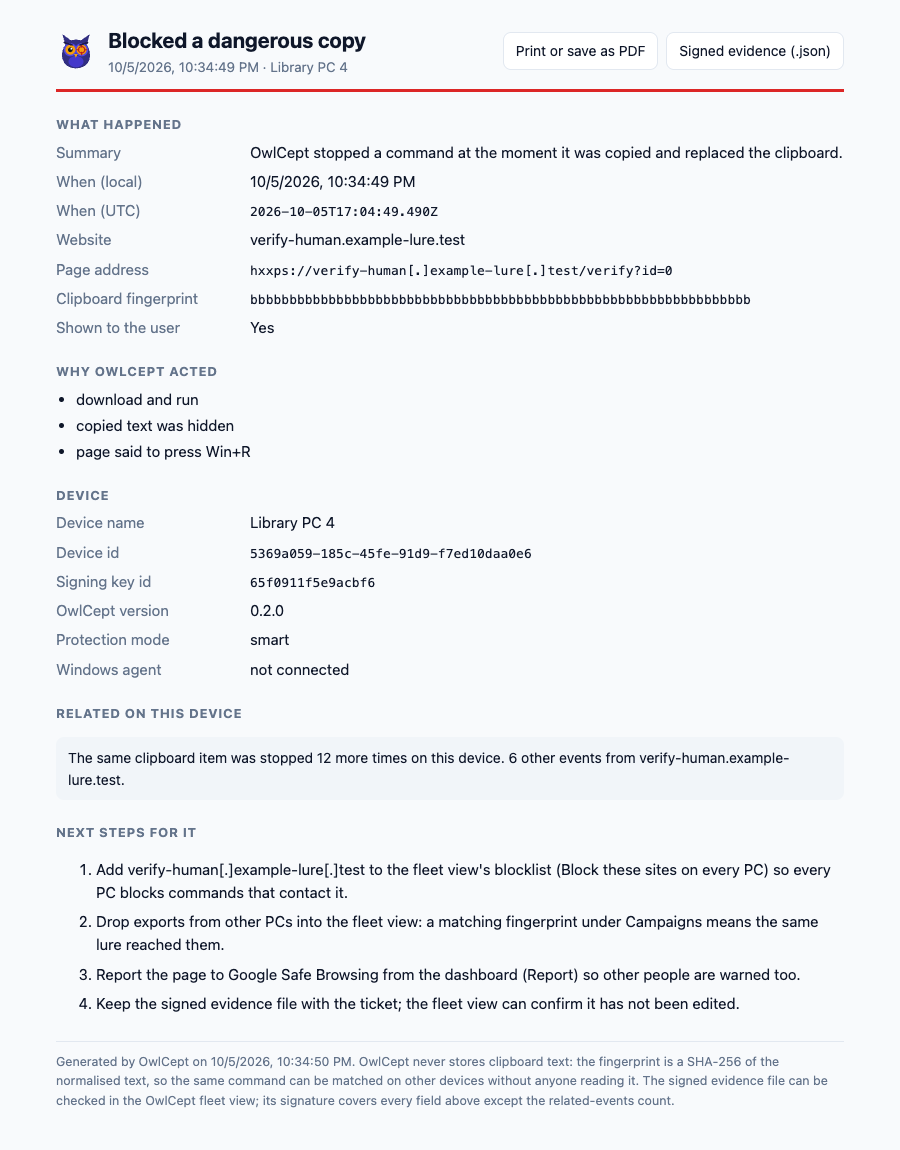
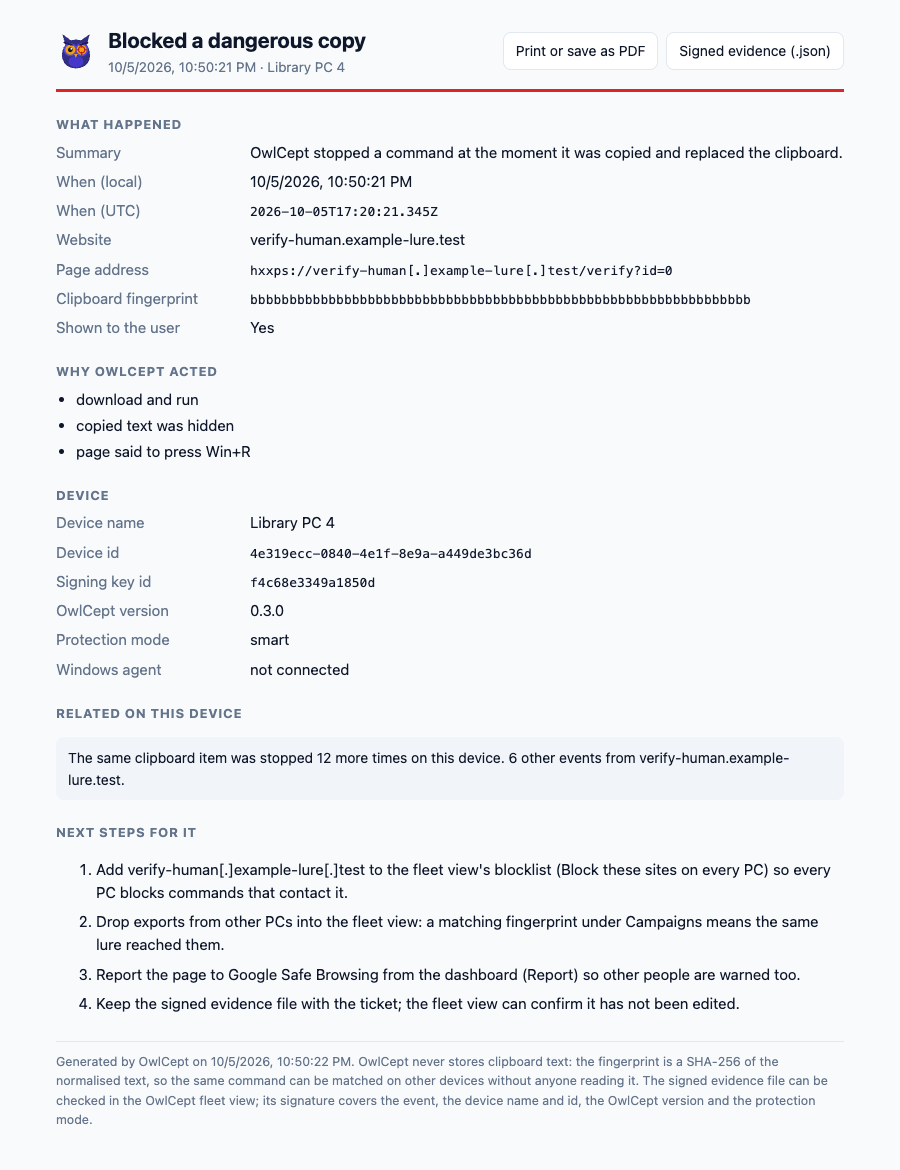
0.3.0: README, web README, deploy guide and threat model for the new features
Every part moves to 0.3.0.

Changed region(s): [[0.0622, 0.0304, 0.9333, 0.9739], [0.28, 0.1217, 0.9333, 0.3043], [0.28, 0.4261, 0.5911, 0.6087]]

diff --git a/packages/engine/cli/owlcept.ts b/packages/engine/cli/owlcept.ts
@@ -14,7 +14,7 @@ import { createInterface } from 'node:readline';
 import { analyze, checkOAuthPaste, describeTrick, explain, explainConsentFix, normalizeForHash, sha256Hex } from '../src/index.ts';
 import type { AnalyzeContext, CustodyRecord, Lang, PasteTarget, Verdict } from '../src/types.ts';
 
-const VERSION = '0.2.0';
+const VERSION = '0.3.0';
 const TARGETS = new Set(['run', 'terminal', 'explorer', 'web', 'unknown']);
 const LANGS = new Set(['en', 'hi', 'kn']);
 const EXIT = { allow: 0, warn: 1, block: 2 } as const;

diff --git a/packages/engine/test/cli.test.ts b/packages/engine/test/cli.test.ts
@@ -50,7 +50,7 @@ test('serve: one JSON reply per request line, errors reported per line', () => {
 test('usage errors exit 64', () => {
   assert.equal(run(['check', 'x', '--target', 'moon']).status, 64);
   assert.equal(run(['frobnicate']).status, 64);
-  assert.equal(run(['--version']).stdout.trim(), '0.2.0');
+  assert.equal(run(['--version']).stdout.trim(), '0.3.0');
 });
 
 test('check --trace prints every decoding step', () => {

diff --git a/packages/engine/host/entry.ts b/packages/engine/host/entry.ts
@@ -19,4 +19,4 @@ function analyzeJson(requestJson: string): string {
   return JSON.stringify({ verdict, explanation });
 }
 
-(globalThis as Record<string, unknown>).OwlCept = { analyzeJson, normalizeForHash, version: '0.2.0' };
+(globalThis as Record<string, unknown>).OwlCept = { analyzeJson, normalizeForHash, version: '0.3.0' };

diff --git a/README.md b/README.md
@@ -32,6 +32,7 @@
 ![Languages](https://img.shields.io/badge/warnings-English_·_Hindi_·_Kannada-B91C1C)
 ![False prompts](https://img.shields.io/badge/false_prompts-0_of_650_documented_commands-15803D)
 ![Latency](https://img.shields.io/badge/engine_p95-under_0.1_ms-0F172A)
+![Worst case](https://img.shields.io/badge/worst_case-~24_ms_on_200_KB-0F172A)
 
 [**Download**](https://github.com/sidhy4rth/OwlCept/releases/latest) ·
 [**How it works**](#how-it-works) ·
@@ -61,7 +62,7 @@
 <td align="center"><h3>3</h3>warning languages<br><sub>English · Hindi · Kannada</sub></td>
 <td align="center"><h3>0 / 650</h3>false prompts<br><sub>on commands from<br>official docs</sub></td>
 <td align="center"><h3>0</h3>bytes of clipboard<br>sent anywhere</td>
-<td align="center"><h3>159</h3>tests<br><sub>131 unit + 28 in a<br>real browser</sub></td>
+<td align="center"><h3>212</h3>tests<br><sub>160 unit + 52 in a<br>real browser</sub></td>
 </tr>
 </table>
 
@@ -94,6 +95,11 @@ in their own language, what the page tried to make them do.
 | **Activity dashboard** | What was stopped, where and why, a 30-day chart, the same command stopped on several pages, searchable history, CSV and JSON export, and a weekly WhatsApp summary for a trusted person. |
 | **Opt-in lure reporting** | "Report this page" opens Google Safe Browsing's public report form with the lure URL filled in, and only when clicked. |
 | **Runs a whole lab** | Colleges set and lock every setting by Group Policy or Intune ([deploy guide](docs/DEPLOY.md)), then drop every PC's export into the **fleet view** to see campaigns across devices. No server. |
+| **Shows its work** | "How OwlCept read it, step by step": every layer it decoded, which decoder produced it and which disguises came off, in English, Hindi and Kannada (`owlcept check --trace` on the command line). |
+| **Fails safe, not open** | A stress test feeds the engine 1,700 pathological inputs up to 200 KB in CI; the worst takes ~24 ms. Anything it cannot finish decoding within its 150 ms budget is at least a warning, never a silent pass. |
+| **Organisation rules** | IT can block hosts (any command that would contact them is stopped) and approve exact commands by SHA-256 fingerprint (the college's own setup script never prompts). Policy-only: a page or the user cannot set them. |
+| **Signed exports and incident reports** | Each browser signs its fleet exports with its own non-extractable ECDSA key; the fleet view rejects edited files. Every event has a printable incident report with tailored next steps and a signed evidence file. |
+| **Measures its own explanations** | A review tool for the brief's "two reviewers score 50 warnings": seeded packs, keyboard scoring in three languages, accuracy against 90% and Cohen's κ. |
 | **Keeps nothing readable** | Only a SHA-256 fingerprint of each copy is kept, for 24 hours. The web checker's Content-Security-Policy forbids every network connection. |
 
 <table>
@@ -149,7 +155,8 @@ flowchart LR
 | [`extension`](extension) | Edge and Chrome extension (Manifest V3): copy checkpoint, ConsentFix paste guard, warning banner, popup, native-messaging bridge to the agent. | ✅ tested in Chromium on every push |
 | [`web`](web) | **OwlCept Check**: paste a command, see what it really does. Static, works from `file://`, CSP blocks every connection. | ✅ builds on every push |
 | [`android`](android) | Kotlin app wrapping OwlCept Check offline: share target, "Check with OwlCept" on selected text, clipboard button, Quick Settings tile. **Zero permissions.** | ✅ APK on every release |
-| [`web/fleet.html`](web/README.md#fleet-view) | **Fleet view**: drop in every PC's export; per-device counts, lure sites as a DNS blocklist, campaigns across devices, audit-mode near-misses. Offline. | ✅ tested with hostile files |
+| [`web/fleet.html`](web/README.md#fleet-view) | **Fleet view**: drop in every PC's export; signatures verified, per-device counts, campaigns across devices, audit-mode near-misses, and **one-click blocklist policy** (PowerShell, .reg, JSON) from the lure sites. Offline. | ✅ tested with hostile, edited and re-keyed files |
+| [`web/review.html`](web/README.md#warning-review) | **Warning review**: score a pack of real warnings, merge two reviewers into accuracy and Cohen's κ. | ✅ full two-reviewer run in CI |
 | [`packages/engine/cli`](packages/engine/cli/owlcept.ts) | **`owlcept` CLI**: `check`, `oauth`, and a JSON-lines `serve` mode for the agent; exit status 0/1/2 for allow/warn/block. | ✅ single-file release asset |
 | [`bench`](bench) | Benchmark harness against the brief's targets. 650 commands from official docs ship with it; the team's defanged attack corpus drops in as JSONL. | ✅ [report](docs/BENCHMARK.md) in CI |
 | [`deploy`](deploy) | Policy script for Chrome and Edge, example `.reg`, Native Messaging host manifest. | ✅ tested on a Windows runner |
@@ -192,8 +199,9 @@ flowchart LR
 | Android | Kotlin 2.0, Android Gradle Plugin 8.7, SDK 35 (min 26), AndroidX WebKit `WebViewAssetLoader`, Quick Settings `TileService`, `PROCESS_TEXT` and share intents |
 | Windows agent | Team in progress; embeds the same engine through its single-file host bundle |
 | Testing | `node:test` unit tests; Playwright 1.63 loads the built extension into real Chromium (modes, dashboard, export, and a network capture proving 0 bytes leave); the fleet view is tested with hostile files |
-| Benchmark | `bench/run.ts`: copy, paste and commit checkpoints per sample, false-prompt rate, latency p95, warning coverage in 3 languages; fails CI on a regression |
-| Deployment | `chrome.storage.managed` schema, PowerShell policy script for Chrome and Edge (tested on `windows-latest`), fixed extension ID via the manifest key |
+| Benchmark | `bench/run.ts`: copy, paste and commit checkpoints per sample, false-prompt rate, latency p95, warning coverage in 3 languages; `bench/stress.ts`: worst case on 1,700 pathological inputs; `bench/review-pack.ts`: seeded review samples. All fail CI on a regression |
+| Cryptography | WebCrypto ECDSA P-256 (non-extractable device keys in IndexedDB, signatures over canonical JSON); a pure-TypeScript SHA-256 so fingerprints match inside hosts without WebCrypto |
+| Deployment | `chrome.storage.managed` schema, PowerShell policy script for Chrome and Edge (tested on `windows-latest`), fixed extension ID via the manifest key; a real managed-policy file is read by Chromium in Linux CI |
 | CI/CD | GitHub Actions: one workflow per part plus Benchmark and Deployment kit, CodeQL (TypeScript + Actions), tag-triggered release that attaches the extension zip, web zip, APK and CLI |
 | Logo | Hand-written SVG with CSS keyframes (`scripts/logo.mjs`), rendered to MP4/GIF with Playwright + ffmpeg; honours `prefers-reduced-motion` |
 
@@ -218,10 +226,13 @@ does and holds the aim pose for people who prefer reduced motion. MP4 and GIF cu
 npm ci
 npm test                                   # engine + extension unit tests
 npm run bench                              # benchmark → docs/BENCHMARK.md
+npm run stress                             # worst-case timing on pathological input
+npm run review-pack                        # warning-review sample → bench/review/pack.json
 npm run build                              # extension → extension/dist, web → web/dist
 npx playwright install chromium
-npm run test:browser                       # extension (19 checks) and web pages (9) in Chromium
-npm run owlcept -- check "git status"      # the CLI from source
+npm run test:browser                       # extension (22 checks) and web pages (25) in Chromium
+npm run owlcept -- check "git status" --trace   # the CLI from source
+npm run owlcept -- hash "<command>"        # fingerprint for the approvedCommands policy
 cd android && ./gradlew assembleDebug      # after npm run build -w @owlcept/web; needs JDK 17
 ```
 

diff --git a/web/README.md b/web/README.md
@@ -25,5 +25,29 @@ several devices; and, for devices in audit mode, how many commands enforcement w
 have stopped. Exports from the same device are merged, so a weekly export can simply be
 dropped in again.
 
+**Signatures.** Each PC signs its exports with its own key (ECDSA P-256, private half
+non-extractable). A file edited after export is listed with the reason and left out of
+every number; unsigned files count but are marked; a device whose key changes between
+files is flagged. Compare a device's key id with the one on its dashboard.
+
+**Block these sites on every PC.** Tick lure sites, optionally add approved-command
+fingerprints, and download the result as a PowerShell command, a `.reg` file for Chrome
+and Edge, or browser policy JSON. Only strict host names and fingerprints are written,
+so a tampered export cannot inject anything into a file IT runs as administrator.
+
 Imported files are treated as untrusted: only known fields of the right type and size
 are kept (`parseReport` in the engine), and everything is rendered as text.
+
+## Warning review
+
+`review.html`. The brief scores explanation accuracy as "90% judged correct, two
+reviewers score 50 random warnings".
+
+1. `npm run review-pack` draws a seeded sample of real warnings from the benchmark
+   corpora into `bench/review/pack.json` (and says if fewer than 50 exist).
+2. Each reviewer opens the pack, picks the language they read, and scores every warning
+   **correct**, **partly** or **wrong** (keys 1, 2, 3; arrows to move), with an optional note.
+   Scores are kept in the browser and downloaded as a file.
+3. **Results**: open both reviewers' files (and the pack). It shows each reviewer's accuracy,
+   the mean against the 90% target, the share both judged correct, Cohen's κ with its usual
+   reading, and every warning judged wrong or disputed.

diff --git a/docs/DEPLOY.md b/docs/DEPLOY.md
@@ -9,6 +9,9 @@ without any server and without clipboard text ever leaving a PC.
 | Same settings on every PC, locked | Browser policy for the extension, set by [`Set-OwlCeptPolicy.ps1`](../deploy/windows/Set-OwlCeptPolicy.ps1) or the example [`.reg`](../deploy/windows/owlcept-policy-example.reg) |
 | Install it on every PC | Force-install through Chrome or Edge policy (below) |
 | See what was stopped across PCs | Each PC exports its log from the dashboard; the [fleet view](../web/README.md#fleet-view) merges the files in the browser |
+| Block a campaign everywhere | Fleet view → tick its lure sites → **Block these sites on every PC** → deploy the generated PowerShell, `.reg` or JSON |
+| Approve the college's own scripts | `owlcept hash "<command>"` → add the fingerprint to `approvedCommands` |
+| Trust the numbers | Exports are signed per device; the fleet view rejects edited files and flags key changes. Each event has a printable incident report and a signed evidence file for the ticket |
 | Measure before enforcing | Start in **audit** mode for a week: everything is logged, nobody is interrupted. Check the fleet view, add the college's own doc sites as trusted, then switch to **smart** |
 
 The extension ID is fixed by the public key in the manifest: **`jjkhmdbenclipofjaeeblabpmjdcibpi`**.

diff --git a/docs/THREAT-MODEL.md b/docs/THREAT-MODEL.md
@@ -39,6 +39,9 @@ where it meets them.
    metadata cross it.
 3. **Organisation → extension.** Browser policy under `HKLM` (admin-only) overrides and
    locks settings; values are validated (`clean()`) because policy is still input.
+   Blocked hosts and approved commands are organisation-only: values in local storage
+   are ignored, so neither a page nor the user can approve a command. Checked end to end
+   against a real managed-policy file in CI.
 4. **Exports → fleet view.** Files are untrusted; the page's CSP forbids any network
    connection.
 

diff --git a/docs/BENCHMARK.md b/docs/BENCHMARK.md
@@ -50,8 +50,8 @@ Engine time per call, 5 runs per sample after warm-up, on the machine that ran t
 
 | Checkpoint | p50 | p95 | max |
 |---|---|---|---|
-| Paste | 0.005 ms | 0.013 ms | 0.144 ms |
-| Commit | 0.005 ms | 0.012 ms | 0.285 ms |
+| Paste | 0.005 ms | 0.011 ms | 0.124 ms |
+| Commit | 0.005 ms | 0.011 ms | 0.114 ms |
 
 ## Explanations
 
